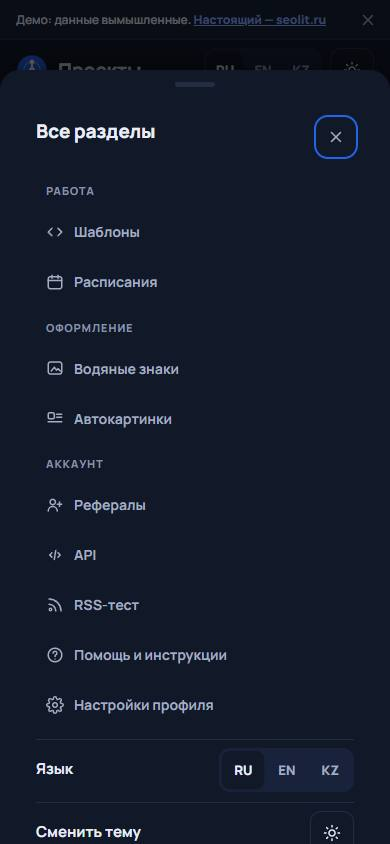
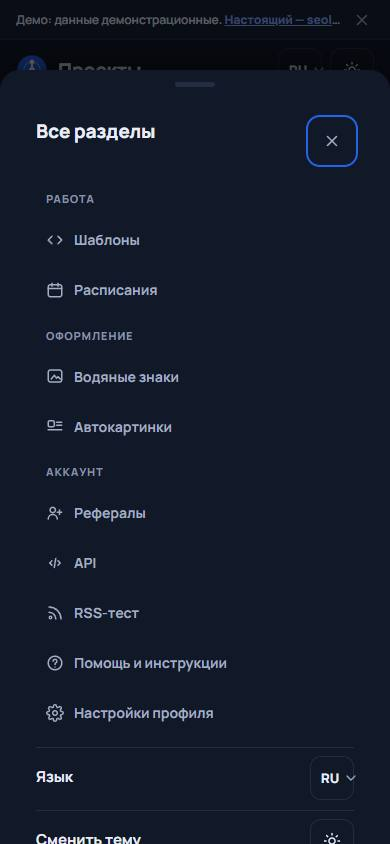
Кабинет 07: проверка — касание 44 px, цвета в токены, QA.md и скриншоты

diff --git a/app/css/app.css b/app/css/app.css
@@ -23,6 +23,10 @@
   --dot: #E5484D;
   --bulk: #0D1526;
   --on-bulk: #FFFFFF;
+  --bulk-err: #FF8A8F;
+  --ai-btn: #FCD34D;
+  --ai-btn-fg: #3B2A00;
+  --ai-btn-ring: #B45309;
   --shadow: 0 1px 2px rgba(13, 21, 38, .05), 0 10px 30px -14px rgba(13, 21, 38, .22);
   --shadow-up: 0 -10px 30px -14px rgba(13, 21, 38, .22);
   --overlay: rgba(13, 21, 38, .5);
@@ -53,6 +57,10 @@
     --dot: #FF6369;
     --bulk: #E8EDF7;
     --on-bulk: #0D1526;
+    --bulk-err: #C42D35;
+    --ai-btn: #FCD34D;
+    --ai-btn-fg: #3B2A00;
+    --ai-btn-ring: #F59E0B;
     --shadow: 0 1px 2px rgba(0, 0, 0, .4), 0 10px 30px -14px rgba(0, 0, 0, .7);
     --shadow-up: 0 -10px 30px -14px rgba(0, 0, 0, .7);
     --overlay: rgba(0, 0, 0, .62);
@@ -79,6 +87,10 @@
   --dot: #FF6369;
   --bulk: #E8EDF7;
   --on-bulk: #0D1526;
+  --bulk-err: #C42D35;
+  --ai-btn: #FCD34D;
+  --ai-btn-fg: #3B2A00;
+  --ai-btn-ring: #F59E0B;
   --shadow: 0 1px 2px rgba(0, 0, 0, .4), 0 10px 30px -14px rgba(0, 0, 0, .7);
   --shadow-up: 0 -10px 30px -14px rgba(0, 0, 0, .7);
   --overlay: rgba(0, 0, 0, .62);
@@ -798,9 +810,7 @@ textarea.input { padding: 12px 14px; min-height: 120px; resize: vertical; }
 .bulk__acts { margin-left: auto; display: flex; flex-wrap: wrap; gap: 6px; }
 .bulk .btn--q { color: var(--on-bulk); }
 .bulk .btn--q:hover { background: color-mix(in srgb, var(--on-bulk) 12%, transparent); color: var(--on-bulk); }
-.bulk .bulk__del { color: #FF8A8F; }
-:root[data-theme="dark"] .bulk .bulk__del { color: #C42D35; }
-@media (prefers-color-scheme: dark) { :root:not([data-theme="light"]) .bulk .bulk__del { color: #C42D35; } }
+.bulk .bulk__del { color: var(--bulk-err); }
 .bulk .x-btn { color: var(--on-bulk); }
 .cal { display: grid; grid-template-columns: repeat(7, minmax(0, 1fr)); gap: 10px; }
 .cal__day { display: flex; flex-direction: column; gap: 8px; min-width: 0; padding: 10px; border-radius: 14px; background: var(--surface); border: 1px solid var(--line); min-height: 200px; }
@@ -859,9 +869,9 @@ textarea.input { padding: 12px 14px; min-height: 120px; resize: vertical; }
 .editor.is-invalid { border-color: var(--err); }
 .editor__ta { border: 0; border-radius: 0; min-height: 150px; box-shadow: none !important; line-height: 1.6; }
 .editor__bar { display: flex; align-items: center; flex-wrap: wrap; gap: 8px; padding: 10px 12px; border-top: 1px solid var(--line); }
-.btn--ai { background: #FCD34D; border-color: #FCD34D; color: #3B2A00; }
-.btn--ai:hover { border-color: #F59E0B; }
-.btn--ai[aria-expanded="true"] { box-shadow: inset 0 0 0 2px #B45309; }
+.btn--ai { background: var(--ai-btn); border-color: var(--ai-btn); color: var(--ai-btn-fg); }
+.btn--ai:hover { border-color: var(--ai-btn-ring); }
+.btn--ai[aria-expanded="true"] { box-shadow: inset 0 0 0 2px var(--ai-btn-ring); }
 .editor__cnt { margin-left: auto; display: flex; flex-wrap: wrap; gap: 4px 12px; font-size: 12px; font-weight: 700; color: var(--muted); }
 .editor__cnt .is-over { color: var(--warn); }
 .ai { display: flex; flex-direction: column; gap: 12px; margin: 0 12px 12px; padding: 14px; border-radius: 12px; background: var(--soft); }
@@ -956,3 +966,28 @@ textarea.input { padding: 12px 14px; min-height: 120px; resize: vertical; }
   .adv summary span { display: none; }
   .media__item { width: 84px; height: 68px; }
 }
+
+/* ---------- Телефон: всё касаемое не меньше 44 px (QA, шаг 07) ---------- */
+@media (max-width: 899.98px) {
+  .btn--sm, .chipf, .seg > button, .seg > a, .search, .sel select, .x-btn, .link-btn { min-height: 44px; }
+  .x-btn { min-width: 44px; }
+  .ibtn, .ibtn--sm, .q__acts .ibtn--sm { width: 44px; height: 44px; }
+  .auth__logo { min-height: 44px; }
+  .pass__eye { top: 0; bottom: 0; right: 0; width: 48px; }
+  .check { min-height: 44px; }
+  .tog { width: 64px; height: 44px; border: 6px solid transparent; background-clip: padding-box; }
+  .tog::after { top: 3px; left: 3px; width: 26px; height: 26px; }
+  .tog[aria-checked="true"]::after { transform: translateX(20px); }
+  .grp__head, .where__row, .acc { min-height: 56px; }
+  .ptab, .col__more { min-height: 48px; }
+  .media__x { width: 44px; height: 44px; top: 0; right: 0; background: transparent; }
+  .media__x .ico { width: 26px; height: 26px; padding: 5px; border-radius: 8px; background: rgba(13, 21, 38, .72); }
+  .tag button { width: 40px; height: 40px; }
+  .tag { min-height: 44px; }
+  .tags input { min-height: 44px; }
+  .q__proj, .news__all { display: inline-flex; align-items: center; min-height: 44px; }
+  .menu > a, .menu > button { min-height: 48px; }
+  .cal__post { min-height: 44px; }
+  .side__logo, .crumbs a { min-height: 44px; }
+}
+@media (max-width: 899.98px) { .tag { padding-right: 0; } .tag button { width: 44px; height: 44px; } }

diff --git a/docs/cabinet/QA.md b/docs/cabinet/QA.md
@@ -1,0 +1,53 @@
+# Проверка демо-кабинета
+
+29.10.2026, шаг [prompts/07](prompts/07-qa.md). Chrome 1xx через Playwright (headless), сайт открыт из подпапки `/seolit-new-design/`, как на GitHub Pages. Скриншоты — в [qa/](qa/).
+
+## Как проверяли
+- **Обход всех страниц**: `login`, `register`, `projects`, `project` (`shop`, `seolit_ru test`, `test 2`), `queue` (все проекты и магазин), `post` (новый и `?id=`), `soon` — на 390×844, 360×740, 768×1024, 1440×900, 1920×1080, в светлой и тёмной теме, на RU / EN / KZ. Всего 330 прогонов. Для каждого: ошибки и предупреждения консоли, ответы 4xx, горизонтальная прокрутка, обрезанный текст в кнопках, чипах и вкладках, кириллица в EN (кроме названий проектов и аккаунтов из данных), касаемые элементы меньше 44 px на телефоне.
+- **Сквозные сценарии** (отдельный скрипт, все ✅):
+
+| Сценарий | Итог |
+|---|---|
+| Лендинг «Попробовать» → регистрация → «Аккаунт создан» → «Создать первый проект» (окно открыто) → проект → «+ Подключить» → Telegram → вход → группа → «Подключить» → «Новый пост» → «Запланировать» → очередь + toast | ✅ |
+| Лендинг «Вход» → «Войти в демо без пароля» → проекты; аватар → «Выйти» → вход, демо-пользователь забыт | ✅ |
+| Тема, выбранная на лендинге, — в кабинете, и обратно (общий ключ `seolit-theme`) | ✅ |
+| `?lang=en` запоминается и действует на следующих страницах | ✅ |
+| «Сбросить демо» возвращает исходные данные (62 приёмника у магазина, исходная очередь) | ✅ |
+| Ссылки: нет `href="#"` и путей от корня, все локальные адреса существуют, разделы без макета → `soon.html?s=…` | ✅ |
+| Окно «Подключить»: Esc закрывает, фокус возвращается на «+ Подключить»; Tab не уходит из окна | ✅ |
+| Ctrl+K — фокус в поиске; меню языка открывается с клавиатуры с фокусом внутри, Esc закрывает и возвращает фокус | ✅ |
+| Фокус виден (обводка `--accent`), у всех кнопок-значков есть `aria-label` | ✅ |
+| `prefers-reduced-motion`: окна, шторки, уведомления только проявляются; ИИ-соавтор вставляет текст сразу, без печати; спиннер стоит | ✅ |
+
+## Что нашли и исправили
+| Проблема | Где | Исправление |
+|---|---|---|
+| Касаемые элементы 32–40 px на телефоне: чипы, переключатели, «⋯», «глаз» пароля, крестики хэштегов и файлов, логотип на входе | все страницы | На < 900 px всё касаемое не меньше 44 px; у переключателя прозрачная рамка 6 px увеличивает область нажатия, видимый размер прежний |
+| Цвета кнопки «ИИ-соавтор» и «Удалить» в панели выбранных были заданы напрямую | `app.css` | Токены `--ai-btn`, `--ai-btn-fg`, `--ai-btn-ring`, `--bulk-err` во всех трёх блоках тем |
+| Список приёмников на телефоне показывал одну строку (`.m-only` делал `ul` флексом в ряд) | проект | `.accs.m-only` — блок |
+| Строка чипов в шторке «Подключить» сжималась до нуля | окно подключения | Дети `.conn__body` не сжимаются |
+| Пустая очередь: «сегодня» — объект Date, при сложении получалась строка | очередь | Числовая отметка времени |
+| `$$` в строке замены превращался в `$` — ломались смена языка и фокус после подключения | `app.js` | Исправлено; замены в скриптах — функцией |
+| «1 ошибки», «2 работают» из макета | проекты, проект | `Intl.PluralRules`: «1 ошибка», «2 ошибки», «5 ошибок»; «1 работает» |
+| Вкладки проекта синие в тёмной теме (огрех макета) | проект | Неактивная — `--muted`, активная — `--fg` с синей полосой |
+| Меню слева кончалось на 1000 px (огрех макета) | все | Липкое, на всю высоту окна |
+| Строки очереди на < 900 px не перестраивались (огрех макета) | очередь | Карточки: миниатюра, текст, маршрут и время, действия в «⋯» |
+
+## Контраст (WCAG, ≥ 4.5:1)
+| Пара | Светлая | Тёмная |
+|---|---|---|
+| `--muted` на `--soft` | 5.51 | 7.07 |
+| `--faint` на `--soft` (подписи групп) | 4.53 | 5.05 |
+| `--err` на `--err-bg` | 4.80 | 6.44 |
+| `--ok` на `--ok-bg` | 4.51 | 7.92 |
+| `--warn` на `--warn-bg` | 5.24 | 8.61 |
+| Белый на `--accent` (кнопки) | 5.17 | 5.17 |
+| `--bulk-err` на `--bulk` | 8.06 | 4.74 |
+| Текст кнопки ИИ на `--ai-btn` | 9.60 | 9.60 |
+| Белый на плашках Max / Facebook / Instagram / YouTube / RSS | 6.67 / 5.67 / 5.81 / 6.27 / 5.47 | — |
+
+## Что не проверено
+- Настоящие телефоны и Safari: только Chrome в режиме телефона (касания, 390×844). Firefox и WebKit для кабинета не запускали.
+- Казахские тексты черновые — нужна вычитка носителем (комментарий в начале `i18n.js`).
+- Экранный диктор (NVDA, VoiceOver) не запускали: проверены только роли, подписи и порядок фокуса.
+- Выбранные в «Новом посте» файлы после отправки не сохраняются (ссылки `createObjectURL` живут только на странице) — так задумано для демо.

diff --git a/docs/cabinet/SPEC.md b/docs/cabinet/SPEC.md
@@ -67,7 +67,7 @@ js/nets.js          общий для лендинга и кабинета: NETS
 - **Уведомления (toast):** снизу по центру, 3 с, `role="status"`. Используются для действий, которые требуют сервера: «Демо: в настоящем SEOlit пост ушёл бы сейчас».
 - **Пункты меню без макета** ведут на `soon.html?s=<раздел>`: та же оболочка, заголовок раздела и текст «Этот раздел появится в демо позже» + кнопка «К проектам».
 
-### 3.6 Поведение и доступность
+### 3.6 Поведение и доступность ✅
 - Все кликабельные элементы — `<a href>` или `<button>`, поля — `<input>`/`<textarea>` с `<label>`. Фокус с клавиатуры виден. Окна — `role="dialog"`, `aria-modal`, Esc закрывает, фокус возвращается на кнопку.
 - Касаемые элементы ≥ 44 px на телефоне.
 - Плавные мелкие анимации 150–250 мс (наведение, раскрытие групп, появление уведомлений). При `prefers-reduced-motion` — только проявление.
@@ -145,7 +145,7 @@ js/nets.js          общий для лендинга и кабинета: NETS
 - Обновить раздел «Ссылки» в `docs/SPEC.md` и в `CLAUDE.md`. Чтобы вернуть настоящие ссылки, достаточно заменить эти адреса на https://seolit.ru/auth.html.
 - Из кабинета на лендинг: логотип на страницах входа/регистрации и «На главную».
 
-## 6. Готово, когда
+## 6. Готово, когда ✅ (проверка — QA.md, 29.10.2026)
 - С лендинга можно пройти: «Попробовать» → регистрация → проекты → проект → подключить приёмник → новый пост → очередь — без тупиков и ошибок в консоли.
 - Каждая страница работает на 390 px и на 1440 px, в светлой и тёмной теме, на трёх языках; в KZ и EN нет русских «хвостов».
 - Нет `href="#"` без обработчика; все ссылки на ещё не сделанные разделы ведут на `soon.html`.

diff --git a/docs/cabinet/PROGRESS.md b/docs/cabinet/PROGRESS.md
@@ -10,7 +10,7 @@
 | 04 | Проект и «Подключить приёмник» (project-connect) | готов |
 | 05 | Очередь (queue) | готов |
 | 06 | Новый пост (post) | готов |
-| 07 | Проверка (qa) | в работе |
+| 07 | Проверка (qa) | готов |
 
 ## Решения
 - 01: соцсети лендинга (`NETS`) не расширял — на их порядке строятся бегущая строка, песочница и сфера; новые для кабинета — отдельный `MORE`, общий список `ALL`.
@@ -50,3 +50,4 @@
 - 06: «Черновик» попадает в очередь во вкладку «На паузе» с пометкой «черновик» (отдельного статуса в ТЗ нет); «Сразу» — в «Опубликовано» с toast «Демо: …».
 - 06: «Куда» — только работающие аккаунты можно отметить, выключенные и с ошибкой видны серыми; по умолчанию отмечены все работающие.
 - 06: после отправки toast показывается уже на странице очереди (sessionStorage seolit-toast).
+- 07: обход 330 сочетаний (11 страниц × 5 размеров × 2 темы × 3 языка) и сквозные сценарии — скриптами Playwright, отчёт в QA.md; найденное исправлено (касание 44 px, цвета в токены, список на телефоне).

diff --git a/CLAUDE.md b/CLAUDE.md
@@ -72,4 +72,5 @@ Settings → Pages → Build and deployment → Source: «Deploy from a branch»
 кроме Битрикс24 (`target="_blank" rel="noopener"`). Новую кнопку «Попробовать» веди туда же, а не на `#start`.
 
 ## Что ещё не подключено (TODO)
+- Кабинет: шаги 01–07 готовы (docs/cabinet/PROGRESS.md, проверка — docs/cabinet/QA.md). Новые разделы — по docs/cabinet/prompts/08, когда будут макеты; казахский — на вычитку.
 - Пока ничего. Следующий шаг — проверка телефона, тем, скорости и доступности (`docs/prompts/04`).
